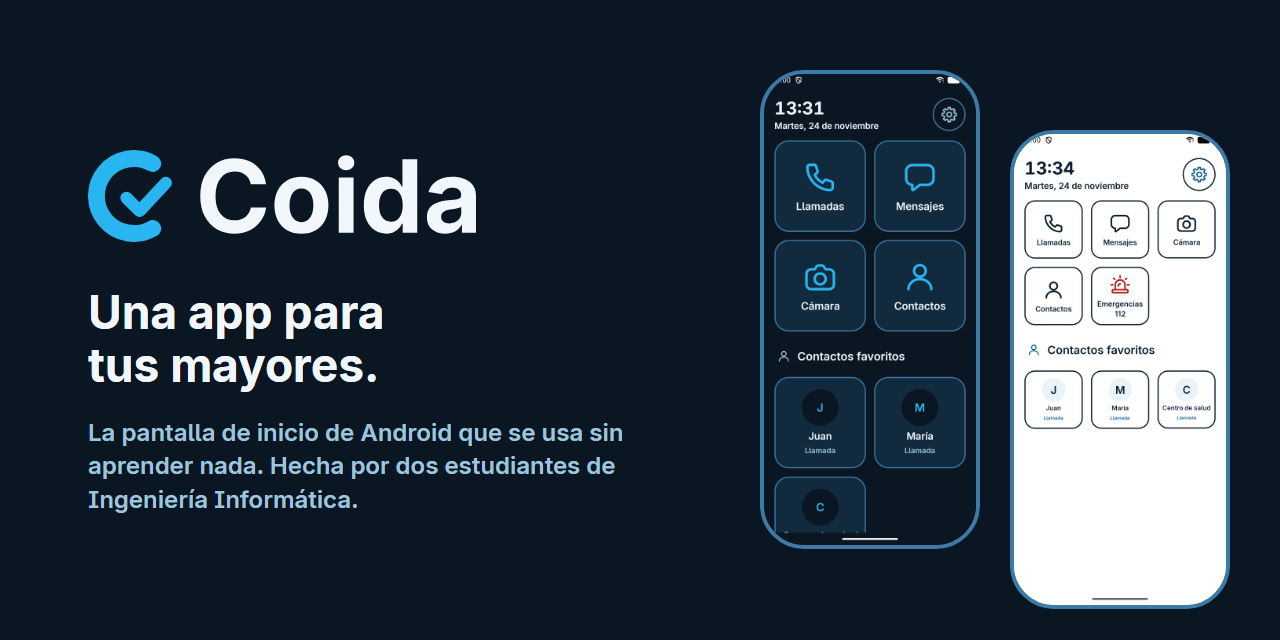
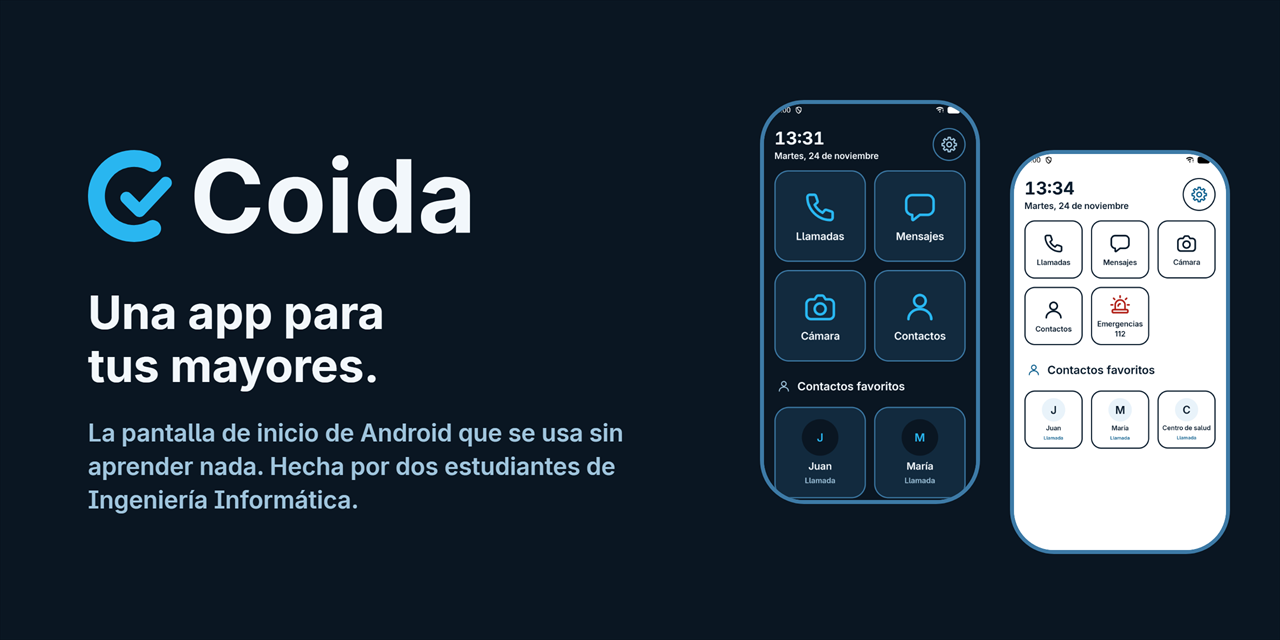
Ajusta la marca tras la auditoría: hueco del logotipo, tamaño mínimo y piezas más legibles
El hueco del logotipo pasa a 0,27 del ancho de la C y el isotipo no baja de 24 px. Las piezas se sacan al doble y sin suavizado LCD, sin la casilla cortada en los móviles y con el texto de LinkedIn legible en el móvil.

diff --git a/docs/diseno.md b/docs/diseno.md
@@ -151,19 +151,21 @@ reglas: **el visto no toca la C**, o se lee como una «e»; **los colores son lo
   radio 20 con centro en (35,5; 32), trazo de 9 y la boca abierta a la derecha
   (±60°), con puntas redondas. El visto pasa por (31,5; 33), (38,5; 40) y
   (52,5; 25), con trazo de 6,5 y puntas y codo redondos. Entre la punta del visto
-  y el remate de arriba de la C quedan 4,7 unidades: menos y se cierra a 48 px.
+  y el remate de arriba de la C quedan 4,7 unidades, y entre el codo del visto y el
+  interior del anillo, 3,71: es el hueco más estrecho, y por eso la marca no baja de
+  24 px de alto.
 - **Icono adaptativo**: fondo `ic_launcher_background` (marino) y delante
   `drawable/ic_launcher_foreground.xml`, sin inset. La figura se escala a 0,98 (48 dp
-  de alto en el lienzo de 108), desplazada 1,5 a la derecha para equilibrar la
-  masa del anillo, y queda dentro de la zona segura de 66 (26 dp del centro como
+  de alto en el lienzo de 108), centrada en el lienzo (la caja de la figura cae
+  1,35 dp a la derecha por su propia forma, lo que equilibra la masa del anillo), y queda dentro de la zona segura de 66 (26 dp del centro como
   mucho). La capa monocroma es la misma figura.
   Para API 24-25, PNG de mdpi a xxxhdpi (48 a 192 px), y `publishing/icono-512.png`
   para Google Play. El cian sobre el marino da 7,36:1.
 - **Logotipo** (`coida_logo.svg` y los de `.claude/skills/coida-brand/assets/`): la
   C y «Coida» en Inter Bold pasada a trazos (D-68). La C mide 1,25 veces la altura
-  de la mayúscula, centrada con ella, y el hueco hasta la palabra es un tercio del
-  ancho de la C. Hay una versión marina para fondo claro y otra con la C en cian y
-  el texto en `#F2F7FB` para fondo oscuro.
+  de la mayúscula, centrada con ella, y el hueco hasta la palabra es 0,27 del ancho
+  de la C, medido en la punta del visto. Hay una versión marina para fondo claro y
+  otra con la C en cian y el texto en `#F2F7FB` para fondo oscuro.
 - **Piezas para fuera** (D-68): la cabecera del README (`docs/img/cabecera.png`),
   el gráfico destacado de Play y la imagen de LinkedIn (en `publishing/`). Llevan
   fondo tinta o marino, el lema en `#F2F7FB` y el texto secundario en `#9FC4DC`

diff --git a/.claude/skills/coida-brand/SKILL.md b/.claude/skills/coida-brand/SKILL.md
@@ -69,10 +69,14 @@ y el visto dice «hecho, ya está», que es lo que busca la persona mayor.
 - **Logotipo**: la C y la palabra «Coida» en **Inter Bold pasada a trazos**, que
   no depende de tener la letra instalada.
   - La C mide 1,25 veces la altura de la mayúscula y va centrada con ella.
-  - El hueco entre la C y la palabra es un tercio del ancho de la C.
+  - El hueco entre la C y la palabra es 0,27 del ancho de la C, medido en la punta
+    del visto: por la boca abierta, a media altura se ve más ancho.
   - «Coida» no tiene I ni l, así que `ss04` no cambia nada en el logotipo.
 - **Zona de respeto**: alrededor de la C, como mínimo la mitad de su ancho.
-  **Tamaño mínimo**: 16 px el isotipo y 24 px de alto el logotipo.
+  **Tamaño mínimo**: 24 px de alto, el isotipo y el logotipo. El hueco más
+  estrecho, entre el codo del visto y el interior del anillo, mide 3,71 unidades de
+  64: por debajo de 24 px se empasta y se lee como una «e». Para un favicon, el
+  isotipo solo, sin el cuadrado.
 - **Nunca**:
   - la C en cian sobre blanco (2,32:1);
   - estirarla, girarla o ponerle sombras, degradados o contornos;
